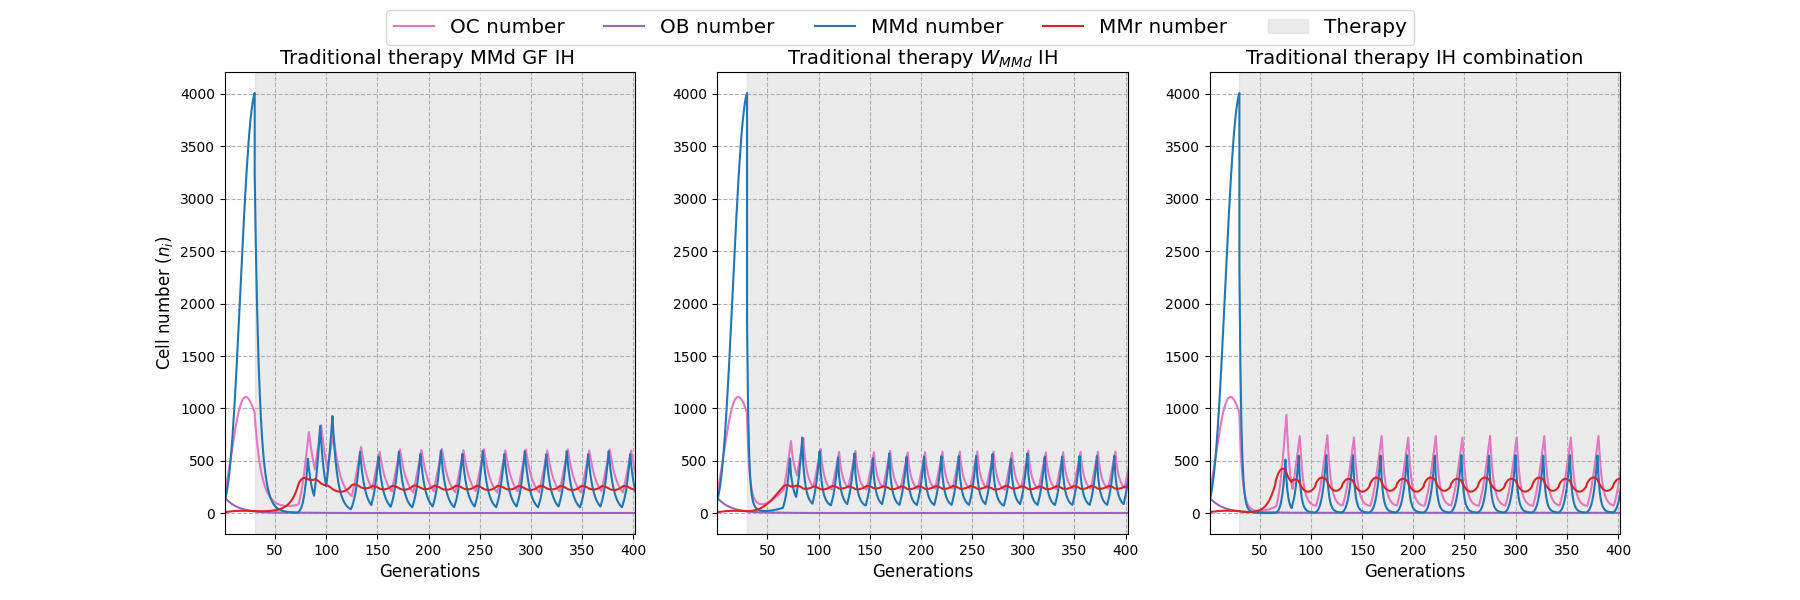
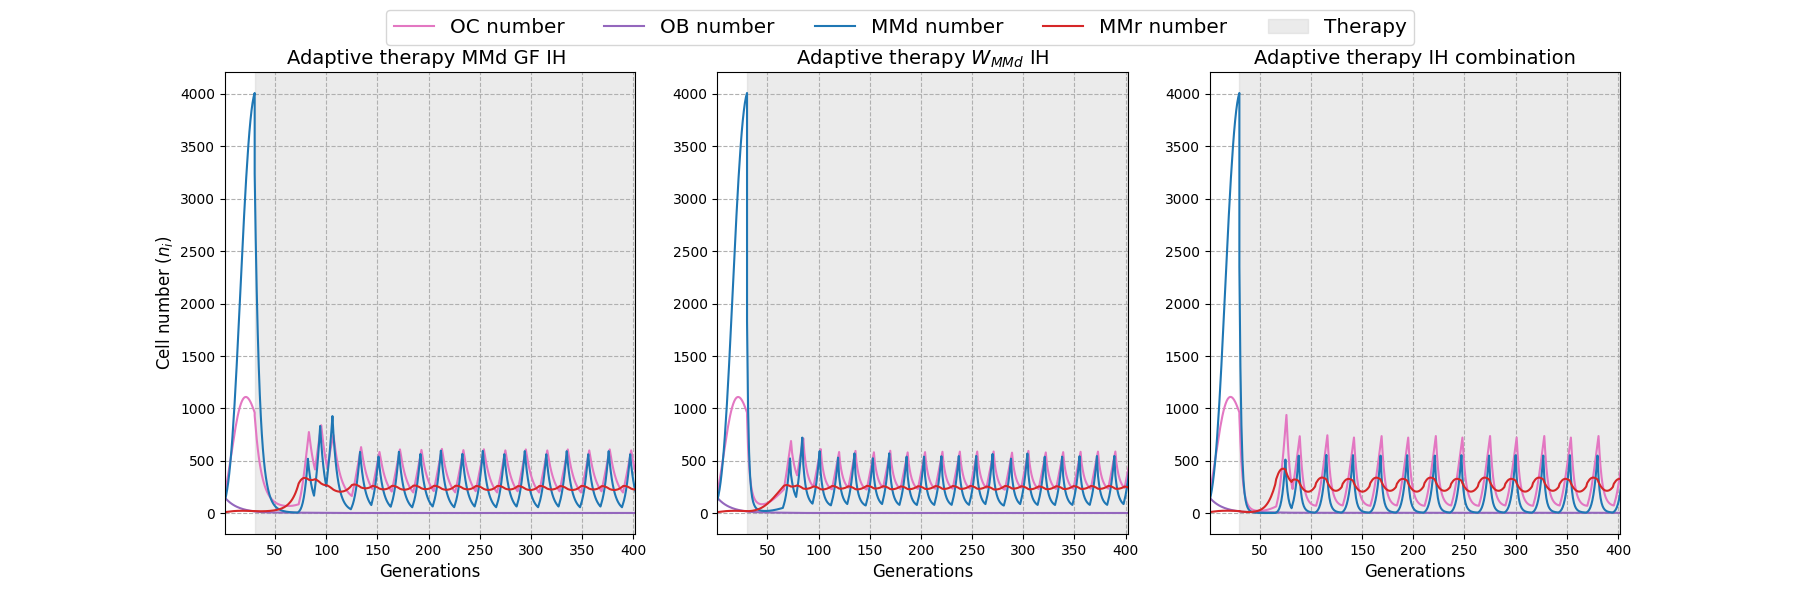
changed figure

Changed region(s): [[0.1556, 0.06, 0.3111, 0.12], [0.6844, 0.09, 0.8711, 0.12], [0.4356, 0.06, 0.5911, 0.12]]

diff --git a/code/MM_model_nr_IH_inf.py b/code/MM_model_nr_IH_inf.py
@@ -44,7 +44,7 @@ def main():
     # by adaptive therapy
     list_t_steps_drug = [3, 3, 3]
     Figure_continuous_MTD_vs_AT_realistic(90, list_t_steps_drug)
-    
+
     # Make a 3D figure showthing the effect of different drug holiday and
     # administration periods
     Figure_3D_MM_numb_IH_add_and_holiday()
@@ -1996,7 +1996,7 @@ def Figure_AT_MMd_MMr_limit(upper_limit_MMd, upper_limit_MMr):
     axs[0].set_xlim(1, 402)
     axs[0].set_xlabel('Generations', fontsize=12)
     axs[0].set_ylabel(r'Cell number ($n_{i}$)', fontsize=12)
-    axs[0].set_title(f"Traditional therapy MMd GF IH ", fontsize=14)
+    axs[0].set_title(f"Adaptive therapy MMd GF IH ", fontsize=14)
     axs[0].grid(True, linestyle='--')
 
     # Plot the data of the AT based on the MMd and MMr number (WMMd IH)
@@ -2007,7 +2007,7 @@ def Figure_AT_MMd_MMr_limit(upper_limit_MMd, upper_limit_MMr):
     axs[1].set_xlim(1, 402)
     axs[1].set_xlabel('Generations', fontsize=12)
     axs[1].set_ylabel(' ')
-    axs[1].set_title(r"Traditional therapy $W_{MMd}$ IH", fontsize=14)
+    axs[1].set_title(r"Adaptive therapy $W_{MMd}$ IH", fontsize=14)
     axs[1].grid(True, linestyle='--')
 
     # Plot the data of the AT based on the MMd and MMr number (IH combination)
@@ -2018,7 +2018,7 @@ def Figure_AT_MMd_MMr_limit(upper_limit_MMd, upper_limit_MMr):
     axs[2].set_xlim(1, 402)
     axs[2].set_xlabel('Generations', fontsize=12)
     axs[2].set_ylabel(' ')
-    axs[2].set_title(r"Traditional therapy IH combination", fontsize=14)
+    axs[2].set_title(r"Adaptive therapy IH combination", fontsize=14)
     axs[2].grid(True, linestyle='--')
 
     # Create a single legend outside of all plots
